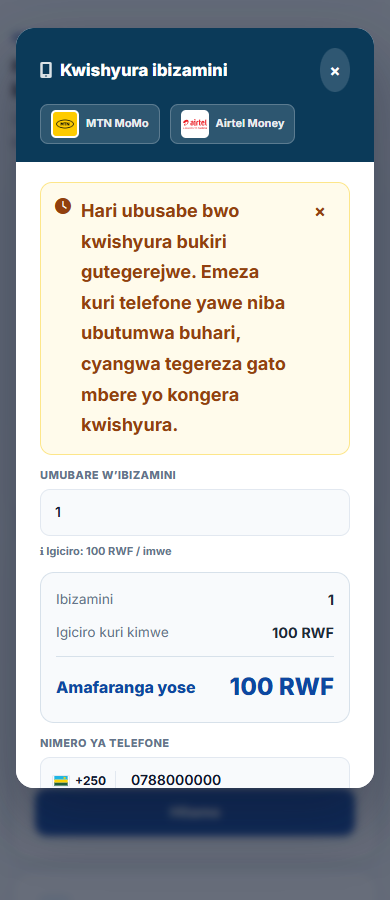
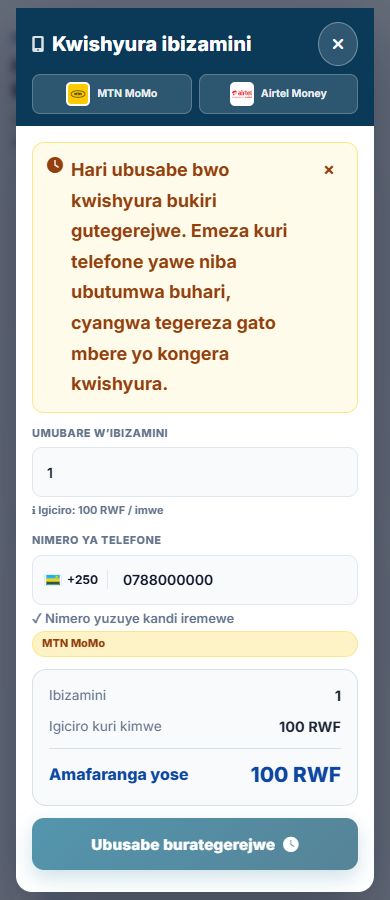
Polish responsive checkout modal

diff --git a/public/ibiciro.html b/public/ibiciro.html
@@ -647,7 +647,77 @@
       }
     </style>
     <style>
-      /* Checkout modal: compact, full-width controls on phones without changing checkout behavior. */
+      /* Checkout modal: visual layout only; checkout behavior remains in the existing handlers below. */
+      .pay-modal-card,
+      .pay-modal-card *,
+      .payment-modal-overlay {
+        box-sizing: border-box;
+      }
+
+      .pay-modal-close {
+        border: 1px solid rgba(255, 255, 255, .3);
+        outline: none;
+      }
+      .pay-modal-close:focus-visible,
+      .payment-status-dismiss:focus-visible {
+        outline: 3px solid rgba(255, 255, 255, .72);
+        outline-offset: 2px;
+      }
+
+      @media (min-width: 681px) {
+        .payment-modal-overlay {
+          align-items: center;
+          padding: 24px;
+          overflow-y: auto;
+        }
+        .pay-modal-card {
+          width: min(94vw, 980px);
+          max-width: 980px;
+          max-height: calc(100dvh - 48px);
+          overflow: hidden;
+          border-radius: 20px;
+        }
+        .pay-modal-header { padding: 18px 24px 15px; }
+        .pay-modal-header-top { margin-bottom: 10px; }
+        .pay-modal-title { font-size: 1.42rem; gap: 10px; }
+        .pay-modal-title i { font-size: 1.2rem; }
+        .pay-modal-close { width: 48px; height: 48px; font-size: 19px; }
+        .pay-carrier-row { gap: 9px; }
+
+        .pay-modal-body {
+          display: grid;
+          grid-template-columns: minmax(0, 1fr) minmax(0, 1fr);
+          column-gap: 28px;
+          row-gap: 18px;
+          align-items: start;
+          padding: 22px 24px 20px;
+        }
+        .pay-modal-body > .payment-status-card,
+        .pay-modal-body > .ussd-hint-box,
+        .pay-modal-body > .pay-cancel-link { grid-column: 1 / -1; }
+        .pay-modal-body > .pay-field { grid-column: 1; min-width: 0; }
+        .pay-modal-body > .pay-summary-card { grid-column: 2; min-width: 0; }
+        .pay-modal-body > .pay-submit-btn {
+          grid-column: 2;
+          align-self: start;
+          min-height: 54px;
+          height: 54px;
+          margin-top: 24px;
+        }
+        .pay-modal-body > .pay-field + .pay-summary-card { align-self: stretch; }
+        .pay-summary-card { min-height: 100%; }
+        .pay-field input[type=number],
+        .pay-field input[type=tel] { min-height: 54px; }
+        .pay-summary-total strong { font-size: 1.85rem; white-space: nowrap; }
+        .pay-summary-total span { font-size: 1.16rem; }
+        .payment-status-card { font-size: .94rem; padding: 12px 14px; }
+      }
+
+      @media (min-width: 681px) and (max-height: 650px) {
+        .pay-modal-card { overflow-y: auto; }
+      }
+
+      /* Compact, full-width controls on phones without changing checkout behavior. */
       @media (max-width: 680px) {
         .payment-modal-overlay {
           align-items: center;
@@ -667,8 +737,8 @@
         .pay-modal-header-top { margin-bottom: 8px; }
         .pay-modal-title { font-size: 1.25rem; }
         .pay-modal-close { width: 40px; height: 40px; }
-        .pay-carrier-row { gap: 7px; }
-        .pay-carrier-badge { min-width: 0; padding: 4px 7px; }
+        .pay-carrier-row { width: 100%; gap: 7px; }
+        .pay-carrier-badge { flex: 1 1 0; justify-content: center; min-width: 0; min-height: 40px; padding: 4px 7px; }
         .pay-carrier-badge img { width: 24px; height: 24px; }
         .pay-carrier-badge span { font-size: .66rem; }
 
@@ -912,7 +982,7 @@
             <div class="pay-modal-header">
                 <div class="pay-modal-header-top">
                     <div class="pay-modal-title"><i class="fa-solid fa-mobile-screen-button"></i> Kwishyura ibizamini</div>
-                    <button class="pay-modal-close" onclick="closeTestPaymentModal()">&times;</button>
+                    <button class="pay-modal-close" type="button" aria-label="Funga" onclick="closeTestPaymentModal()"><i class="fa-solid fa-xmark" aria-hidden="true"></i></button>
                 </div>
                 <div class="pay-carrier-row">
                     <div class="pay-carrier-badge">

diff --git a/scripts/browser-payment-ux-check.js b/scripts/browser-payment-ux-check.js
@@ -69,6 +69,47 @@ async function main() {
       }
     }
 
+    for (const [width, height] of [[320, 568], [360, 640], [360, 800], [390, 844], [412, 915], [768, 1024], [1024, 768], [1366, 768], [1440, 900]]) {
+      const page = await browser.newPage({ viewport: { width, height } });
+      await page.goto(`${baseUrl}/ibiciro.html`, { waitUntil: 'domcontentloaded' });
+      await page.locator('.btn-pay-trigger').first().click();
+      await page.evaluate(() => window.showPaymentStatus('Internet yacitse. Niba waramaze kwemeza ubwishyu kuri telefone, ntukongere kwishyura; tegereza gato.', 'pending'));
+      const layout = await page.evaluate(() => {
+        const rect = selector => {
+          const { x, y, width, height } = document.querySelector(selector).getBoundingClientRect();
+          return { x, y, width, height };
+        };
+        const parentRect = selector => {
+          const { x, y, width, height } = document.querySelector(selector).parentElement.getBoundingClientRect();
+          return { x, y, width, height };
+        };
+        return {
+          documentWidth: document.documentElement.scrollWidth,
+          viewportWidth: window.innerWidth,
+          quantityField: parentRect('#examQuantityVolumeSelector'),
+          quantity: rect('#examQuantityVolumeSelector'),
+          phone: rect('.phone-input-wrap'),
+          summary: rect('.pay-summary-card'),
+          button: rect('#momoSubmitPaymentBtn'),
+        };
+      });
+      assert.ok(layout.documentWidth <= layout.viewportWidth, `checkout overflows at ${width}x${height}`);
+      if (width <= 680) {
+        for (const block of [layout.phone, layout.summary, layout.button]) {
+          assert.ok(Math.abs(block.x - layout.quantity.x) < 1 && Math.abs(block.width - layout.quantity.width) < 1, `mobile controls do not align at ${width}x${height}`);
+        }
+        assert.ok(layout.phone.y < layout.summary.y && layout.summary.y < layout.button.y, `mobile payment order is incorrect at ${width}x${height}`);
+      } else {
+        assert.ok(layout.summary.x > layout.quantity.x, `desktop summary is not in the right column at ${width}x${height}`);
+        assert.ok(Math.abs(layout.summary.y - layout.quantityField.y) < 2, `desktop top row is misaligned at ${width}x${height}`);
+        assert.ok(Math.abs(layout.button.x - layout.summary.x) < 2, `desktop action is not in the right column at ${width}x${height}`);
+        assert.ok(Math.abs(layout.button.y - layout.phone.y) < 28, `desktop payment button does not align with phone input at ${width}x${height}`);
+      }
+      if (width === 390) await page.screenshot({ path: path.join(docs, 'payment-modal-responsive-mobile.png'), fullPage: false });
+      if (width === 1440) await page.screenshot({ path: path.join(docs, 'payment-modal-responsive-desktop.png'), fullPage: false });
+      await page.close();
+    }
+
     const jump = await newPaymentPage(browser);
     await jump.page.getByRole('button', { name: 'Ishyura ikizamini' }).click();
     await expectFocused(jump.page, '#pricingOptions');
